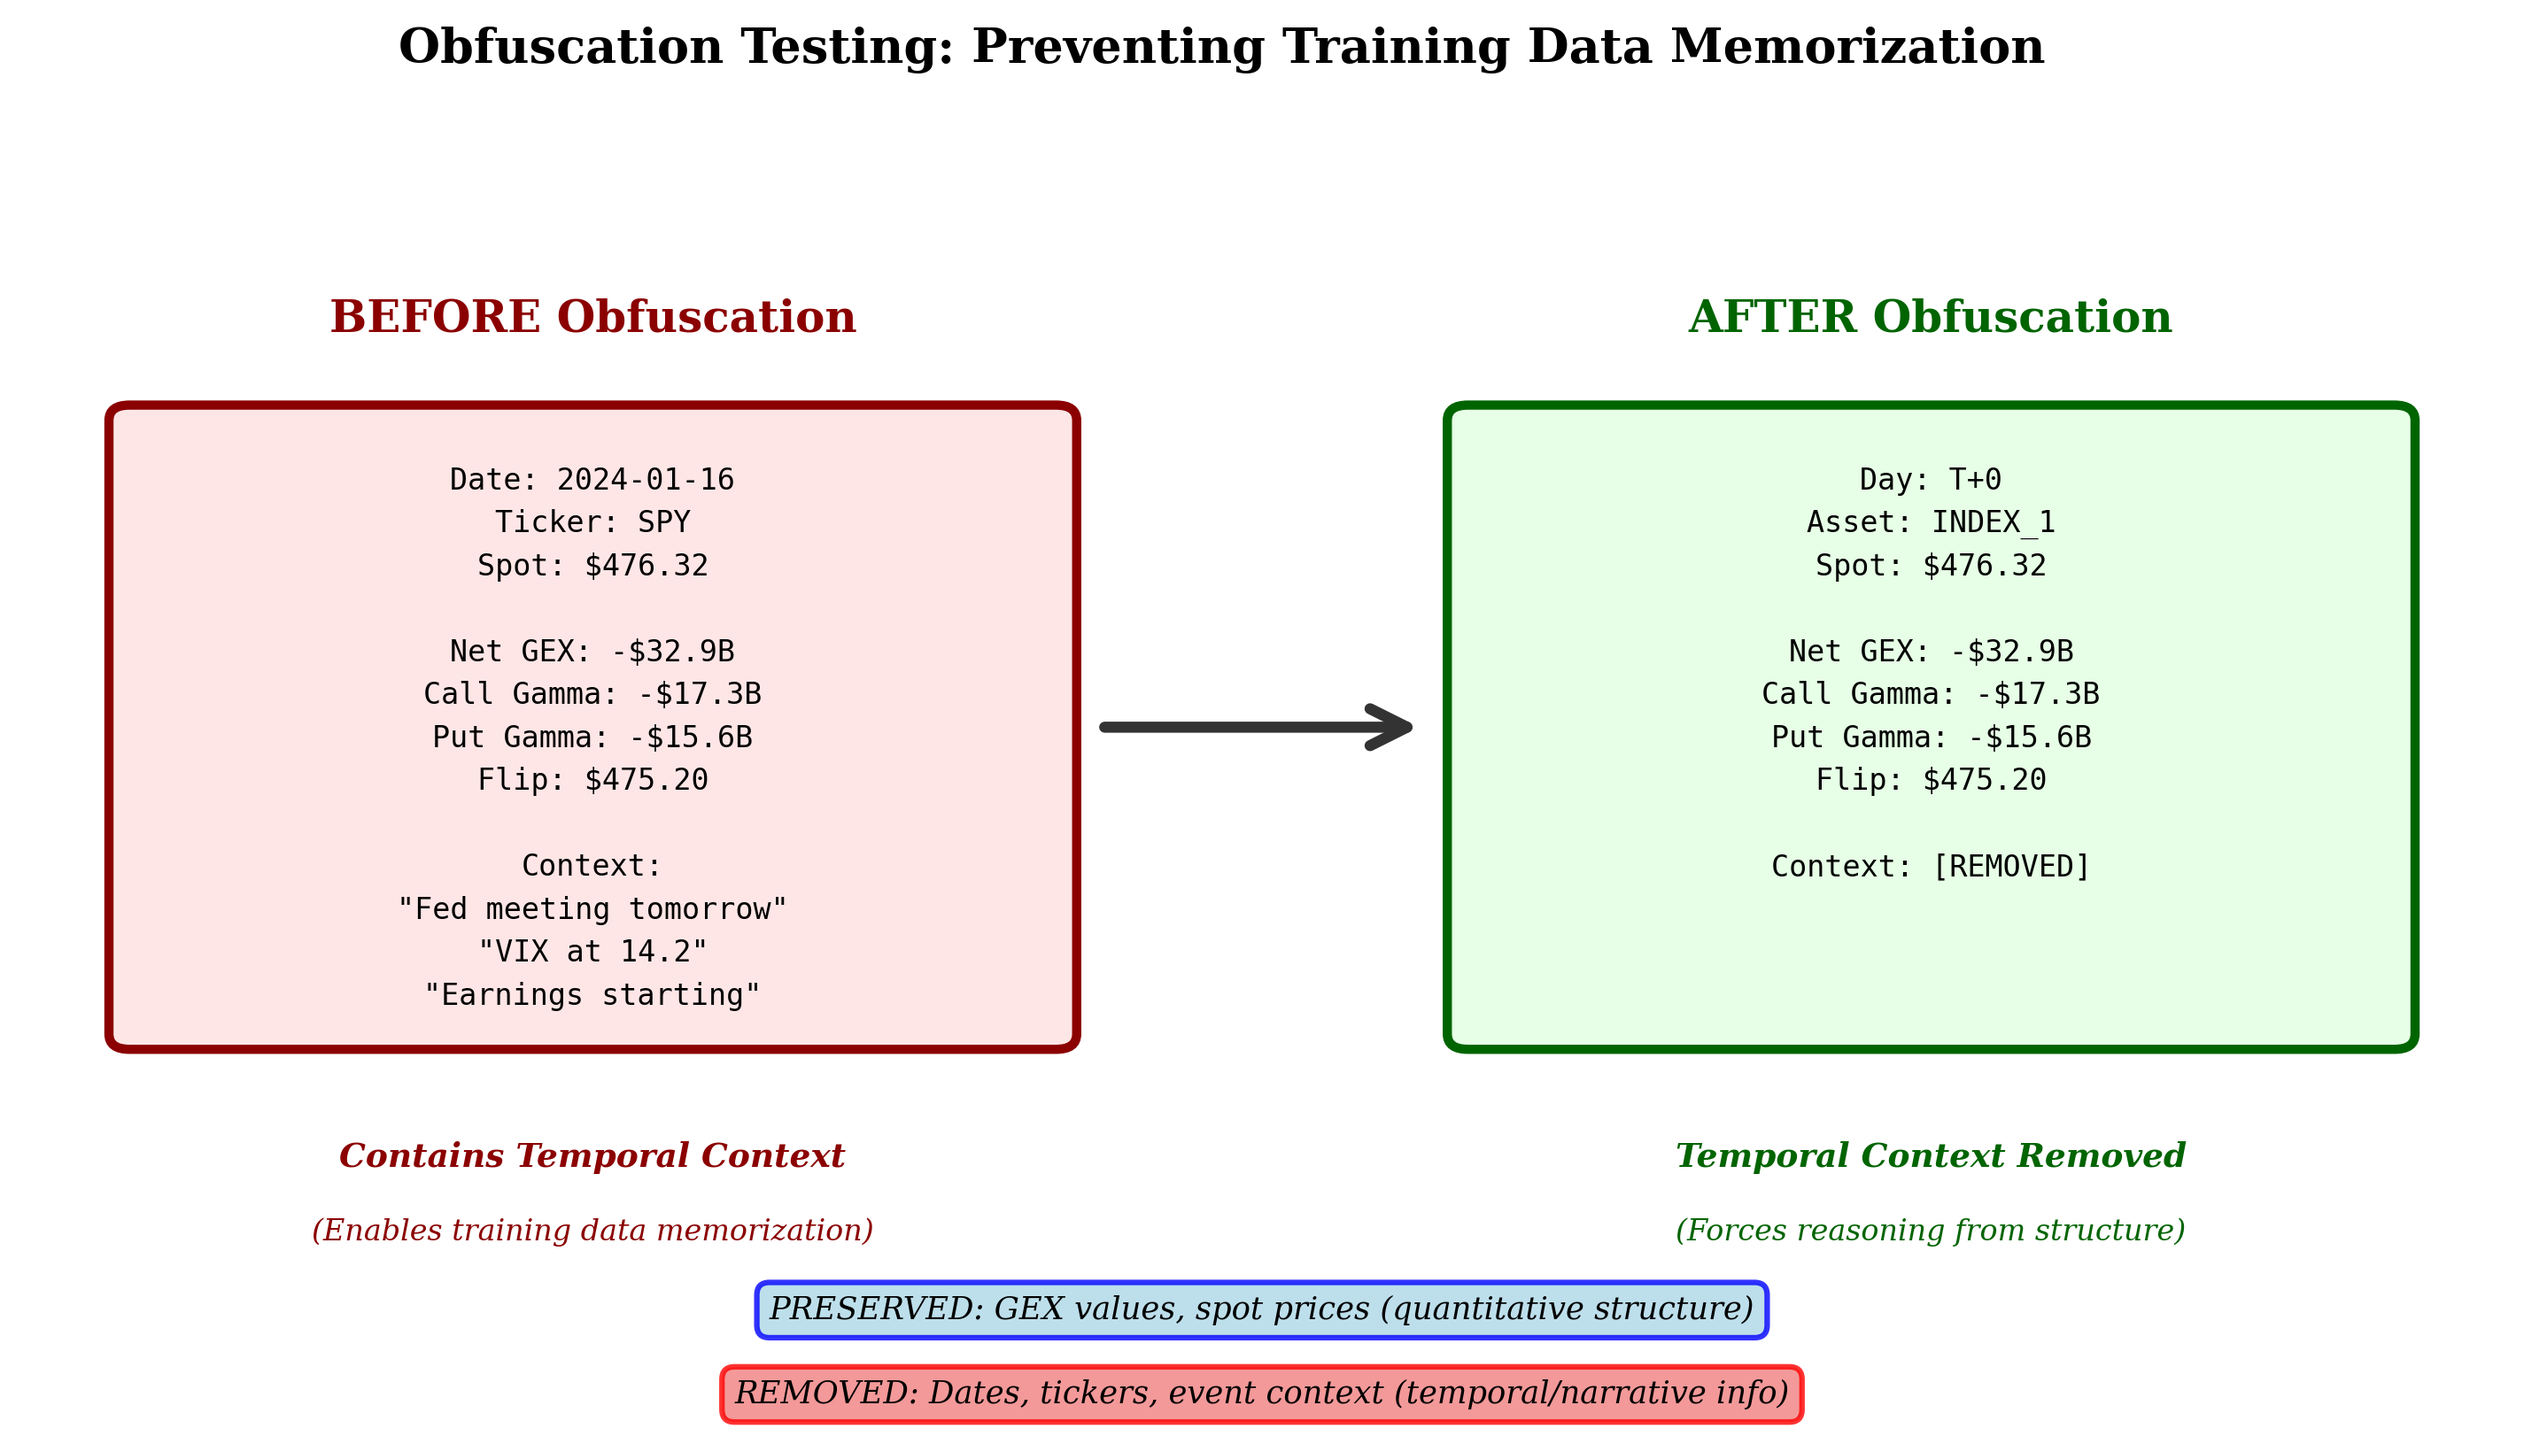
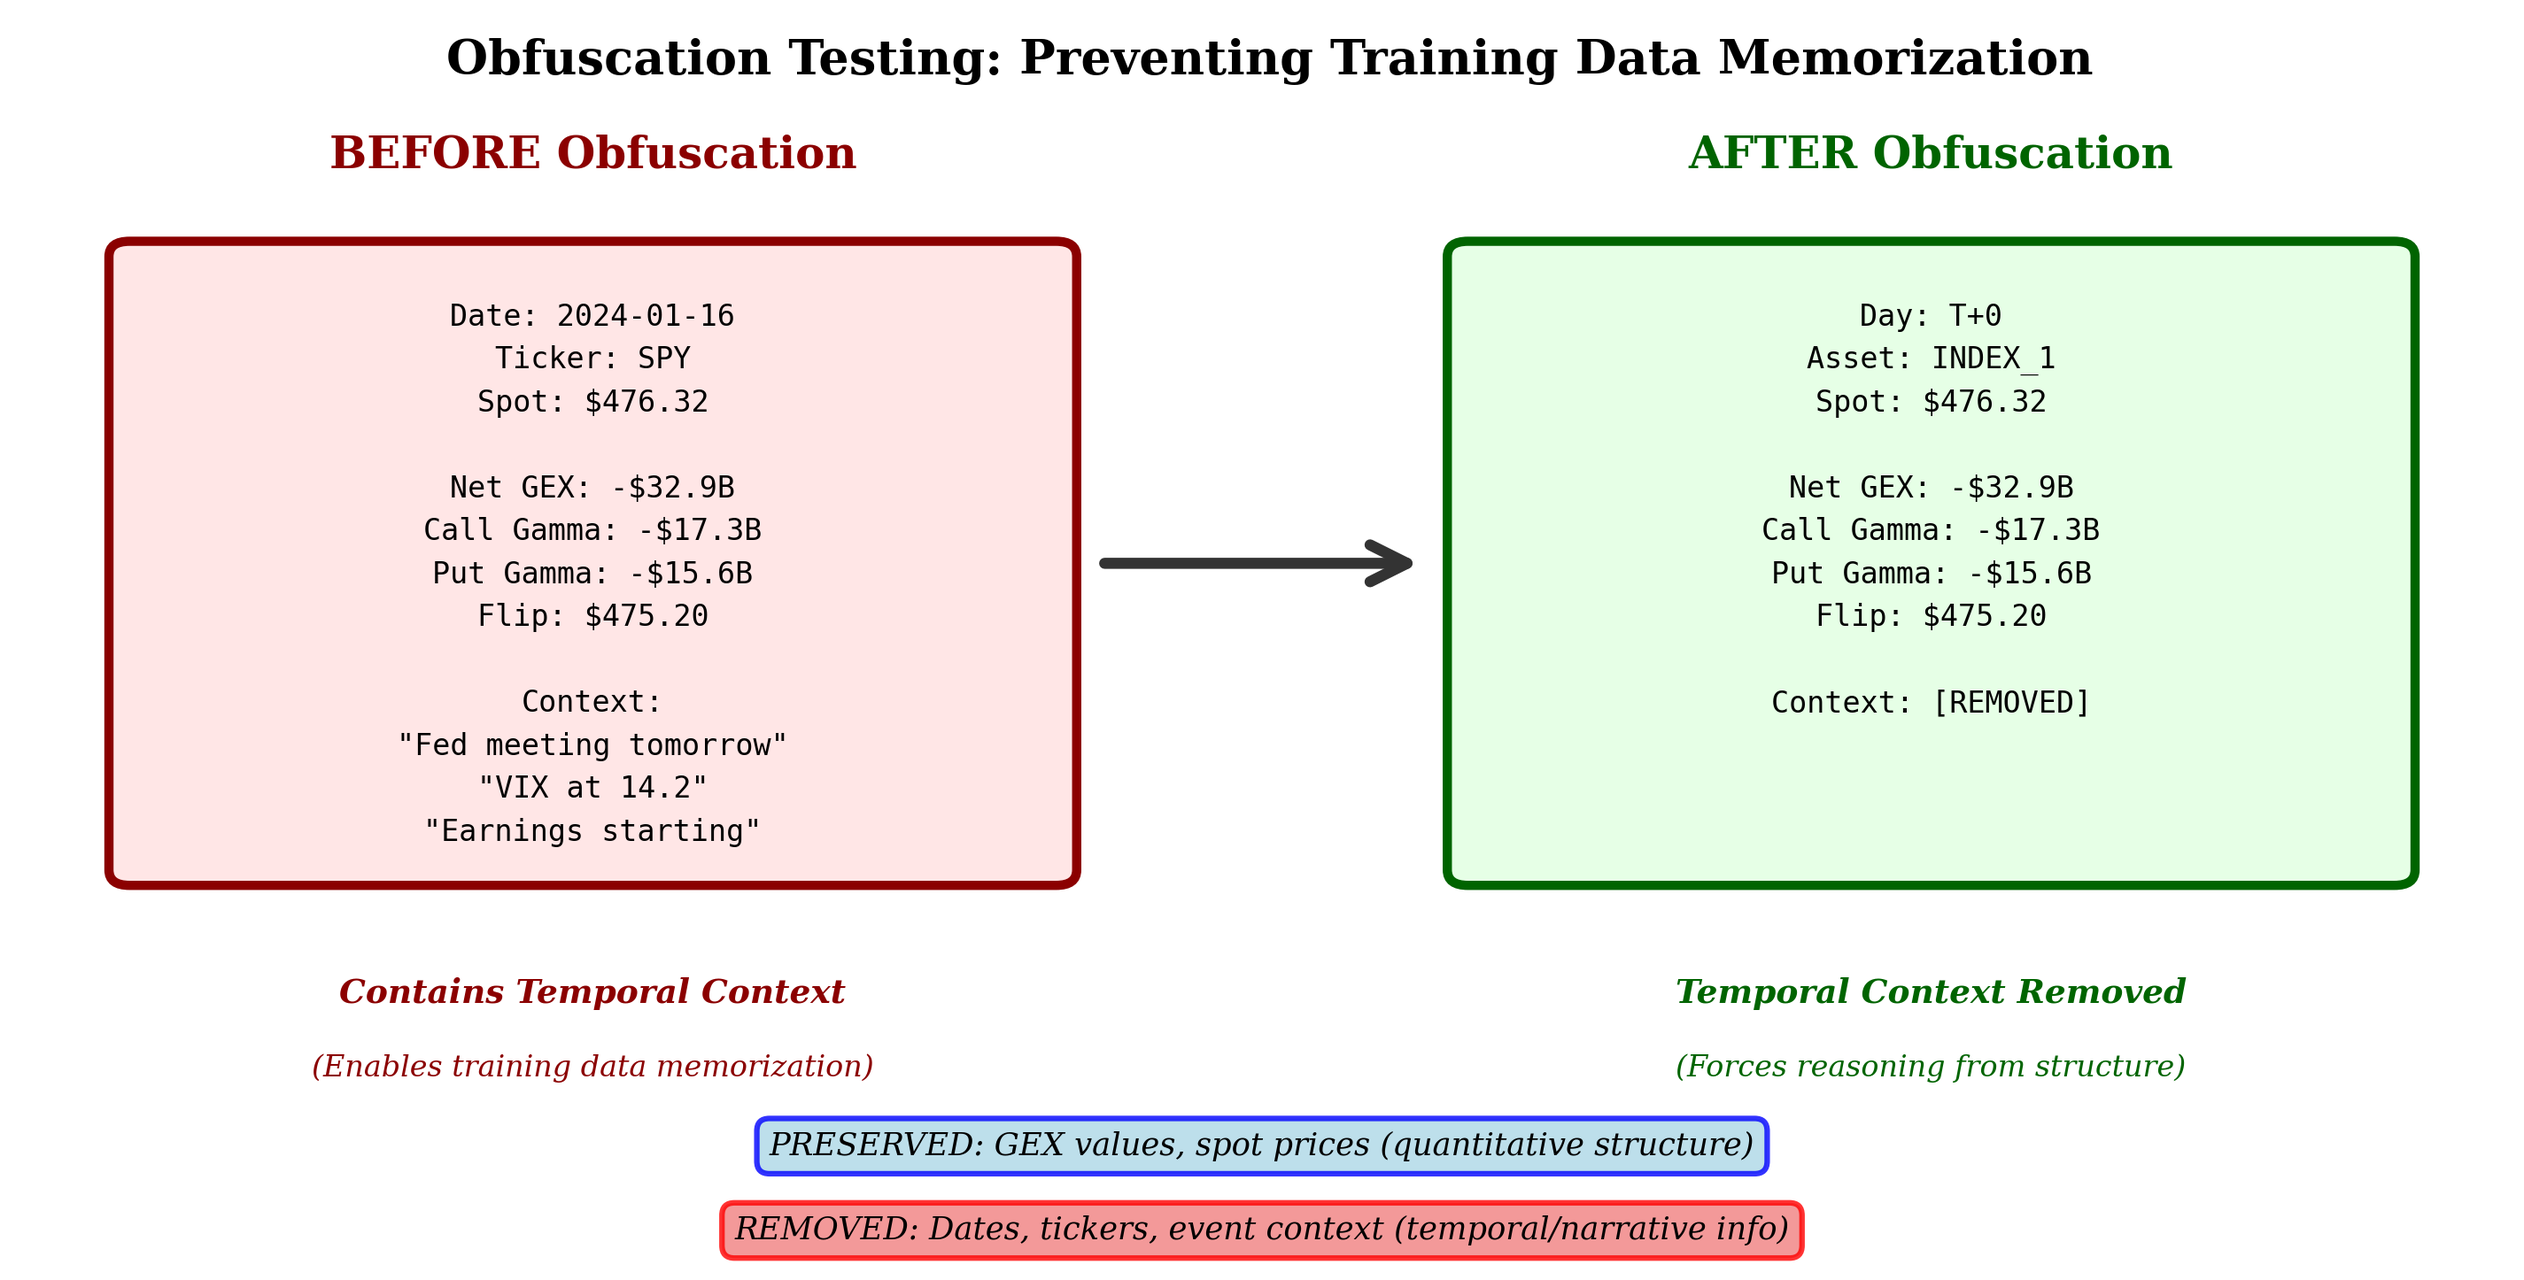
Updated Fig2

diff --git a/docs/papers/paper1/figures/scripts/fig2_obfuscation_example.py b/docs/papers/paper1/figures/scripts/fig2_obfuscation_example.py
@@ -21,8 +21,7 @@ plt.rcParams.update({
     'font.serif': ['Times New Roman', 'DejaVu Serif'],
 })
 
-OUTPUT_DIR = Path(__file__).parent.parent.parent / \
-    "docs" / "papers" / "paper1" / "figures"
+OUTPUT_DIR = Path(__file__).parent
 
 
 def create_figure():
@@ -138,7 +137,7 @@ def create_figure():
                       edgecolor='red', linewidth=1.5, alpha=0.8))
 
     # Main title
-    fig.text(0.5, 0.96, 'Obfuscation Testing: Preventing Training Data Memorization',
+    fig.text(0.515, 0.85, 'Obfuscation Testing: Preventing Training Data Memorization',
              ha='center', fontsize=13, fontweight='bold')
 
     return fig
@@ -154,7 +153,7 @@ def main():
 
     # Save
     OUTPUT_DIR.mkdir(parents=True, exist_ok=True)
-    output_file = OUTPUT_DIR / 'figure2_obfuscation_example.png'
+    output_file = OUTPUT_DIR / '../fig2_prompt_bias_comparison.png'
     fig.savefig(output_file, dpi=300, bbox_inches='tight')
     print(f"✅ Saved: {output_file}")
 
